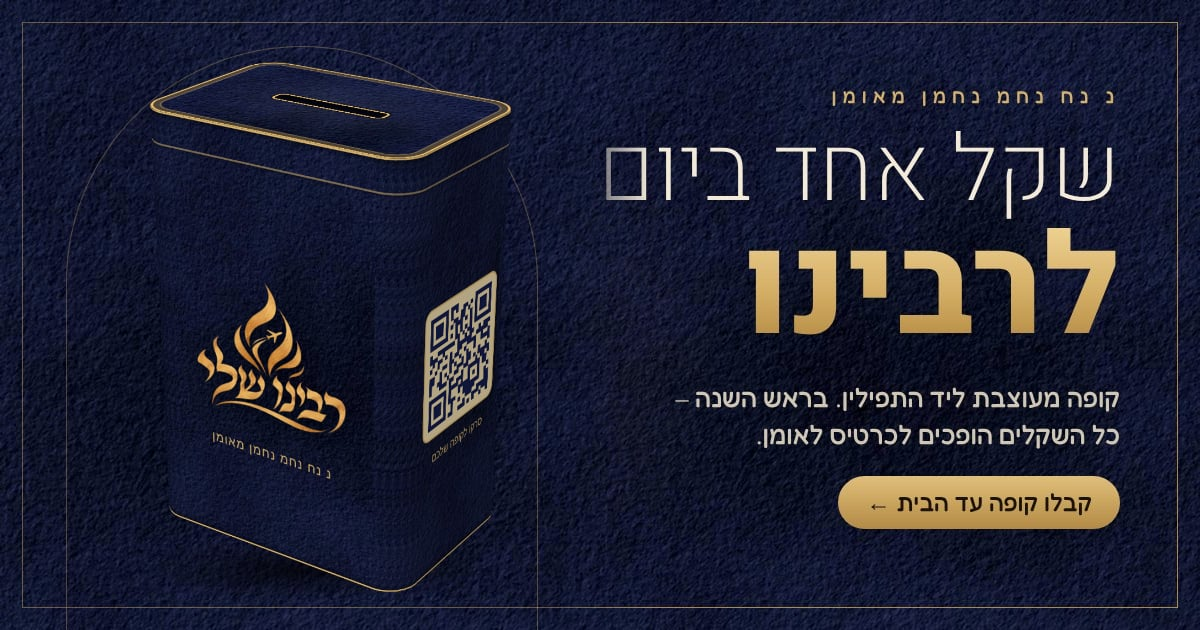
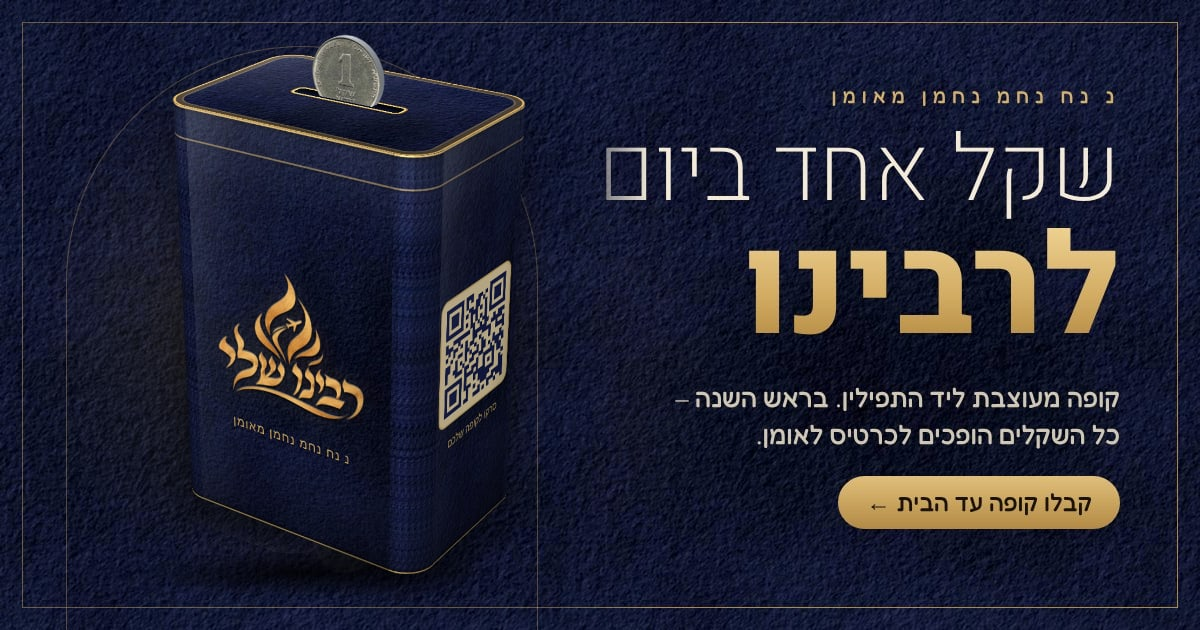
More realistic, premium box: light and sheen on every face, specular corner, gold-foil text and rims; real shekel resting in the slot on the post images
Claude-Session: https://claude.ai/code/session_01VgTt85jE2ddtHjzq3dwd3t

diff --git a/public/kbox.css b/public/kbox.css
@@ -20,7 +20,7 @@
 .kb .qt{font-family:Fredoka,sans-serif;font-weight:500;font-size:calc(10.5*var(--u));color:#d4b06a;text-align:center;line-height:1.35;padding:0 calc(6*var(--u))}
 .kb .slot{position:absolute;left:50%;top:50%;width:calc(100*var(--u));height:calc(13*var(--u));margin:calc(-6.5*var(--u)) 0 0 calc(-50*var(--u));border-radius:calc(4*var(--u));background:#03050f;box-shadow:inset 0 calc(3*var(--u)) calc(4*var(--u)) #000,0 0 0 calc(2*var(--u)) #c9a35c,0 0 0 calc(3.5*var(--u)) rgba(0,0,0,.4)}
 /* falling shekel – real 3D coin inside the box space, drops edge-first through the slot */
-.kb .cn3{position:absolute;left:50%;top:0;width:calc(54*var(--u));height:calc(54*var(--u));margin:calc(-27*var(--u)) 0 0 calc(-27*var(--u));transform-style:preserve-3d;animation:cdrop 4.6s infinite;pointer-events:none}
+.kb .cn3{position:absolute;left:50%;top:0;width:calc(64*var(--u));height:calc(64*var(--u));margin:calc(-32*var(--u)) 0 0 calc(-32*var(--u));transform-style:preserve-3d;animation:cdrop 4.6s infinite;pointer-events:none}
 .kb .cn3 i{position:absolute;inset:0;border-radius:50%;background:linear-gradient(90deg,#6f747b,#c9ced4 50%,#6f747b)}
 .kb .cn3 i:nth-child(1){transform:translateZ(calc(-3*var(--u)))}.kb .cn3 i:nth-child(2){transform:translateZ(calc(-1.5*var(--u)))}.kb .cn3 i:nth-child(3){transform:translateZ(0)}.kb .cn3 i:nth-child(4){transform:translateZ(calc(1.5*var(--u)))}.kb .cn3 i:nth-child(5){transform:translateZ(calc(3*var(--u)))}
 .kb .cn3 b{position:absolute;inset:0;border-radius:50%;display:grid;place-items:center;align-content:center;font-family:Fredoka,sans-serif;color:#5d6268;background:radial-gradient(circle at 34% 28%,#fbfcfd,#d3d7dc 38%,#a4a9b0 72%,#858a91);box-shadow:inset 0 0 0 calc(2.2*var(--u)) #9aa0a7,inset 0 0 0 calc(3.4*var(--u)) #e9ecef;backface-visibility:hidden}
@@ -36,3 +36,13 @@
 .jig{transform-style:preserve-3d;animation:jig 4.6s infinite}
 @keyframes jig{0%,74%,100%{transform:none}77%{transform:translateY(calc(3*var(--u,1px))) scale(1.012,.985)}81%{transform:translateY(calc(-1*var(--u,1px)))}85%{transform:none}}
 .kb .cn3 b.cf{background:url(/shekel-front.png) center/cover;box-shadow:none}.kb .cn3 b.cb{background:url(/shekel-back.png) center/cover;box-shadow:none}.kb .cn3 b *{display:none}
+
+/* ---- realism: light, sheen, gold foil ---- */
+.kb .fr::after,.kb .rt::after,.kb .lt::after,.kb .bk::after{content:"";position:absolute;inset:0;pointer-events:none;background:linear-gradient(100deg,rgba(255,255,255,.13) 0%,rgba(255,255,255,.04) 22%,transparent 45%,transparent 70%,rgba(0,0,0,.28) 100%),linear-gradient(180deg,rgba(255,255,255,.07),transparent 18%,transparent 78%,rgba(0,0,0,.35))}
+.kb .cs::after{content:"";position:absolute;inset:0;background:linear-gradient(180deg,rgba(255,255,255,.07),transparent 18%,transparent 78%,rgba(0,0,0,.35))}
+.kb .tp::after{content:"";position:absolute;inset:0;border-radius:inherit;background:linear-gradient(135deg,rgba(255,255,255,.16),transparent 45%,rgba(0,0,0,.18))}
+.kb .lg{filter:drop-shadow(0 calc(-.6*var(--u)) 0 rgba(255,236,190,.45)) drop-shadow(0 calc(1.6*var(--u)) calc(1.2*var(--u)) rgba(0,0,0,.75)) drop-shadow(0 0 calc(10*var(--u)) rgba(212,176,106,.18))}
+.kb .nn{background:linear-gradient(180deg,#f7e4ad,#c99a4b 55%,#f1d690);-webkit-background-clip:text;background-clip:text;color:transparent;filter:drop-shadow(0 calc(1*var(--u)) calc(.8*var(--u)) rgba(0,0,0,.7))}
+.kb .slot{background:linear-gradient(180deg,#000,#0a0f2a);box-shadow:inset 0 calc(3*var(--u)) calc(5*var(--u)) #000,0 0 0 calc(1.6*var(--u)) #f0d38f,0 0 0 calc(3*var(--u)) #9c7535,0 calc(1.5*var(--u)) calc(3*var(--u)) calc(3*var(--u)) rgba(0,0,0,.45)}
+/* a coin resting half-way into the slot (still images / posts) */
+.kb.still .cn3{animation:none;opacity:1;transform:translateY(calc(-20*var(--u)))}

diff --git a/public/me.html b/public/me.html
@@ -6,7 +6,7 @@
 <link rel="icon" href="/favicon.png"><link rel="apple-touch-icon" href="/apple-icon.png">
 <link rel="preconnect" href="https://fonts.googleapis.com"><link rel="preconnect" href="https://fonts.gstatic.com" crossorigin>
 <link href="https://fonts.googleapis.com/css2?family=Bona+Nova:wght@700&family=Heebo:wght@200;800&family=Fredoka:wght@400;500;600;700&display=swap" rel="stylesheet">
-<link rel="stylesheet" href="/base.css?v=6"><link rel="stylesheet" href="/kbox.css?v=6"><script src="/kbox.js?v=1" defer></script><script src="/i18n.js?v=1"></script>
+<link rel="stylesheet" href="/base.css?v=6"><link rel="stylesheet" href="/kbox.css?v=7"><script src="/kbox.js?v=2" defer></script><script src="/i18n.js?v=1"></script>
 <style>
 body{min-height:100svh;--a11y-b:92px}
 .app{width:min(520px,100%);margin:0 auto;min-height:100svh;padding:0 18px calc(96px + env(safe-area-inset-bottom));position:relative}
@@ -142,7 +142,7 @@ svg.li *{animation:none!important;stroke-dasharray:none!important;stroke-dashoff
 
 <div class="sh" id="sh" role="dialog" aria-modal="true"><div class="pn" id="pn"></div></div>
 <div class="toast" id="toast"></div><datalist id="cityList"></datalist>
-<script src="/cities.js?v=5"></script><script src="/share.js?v=7"></script>
+<script src="/cities.js?v=5"></script><script src="/share.js?v=8"></script>
 <script>
 const $=s=>document.querySelector(s),$$=s=>[...document.querySelectorAll(s)];
 const fmt=n=>Math.round(+n||0).toLocaleString('he-IL');const esc=s=>String(s??'').replace(/[&<>"]/g,c=>({'&':'&amp;','<':'&lt;','>':'&gt;','"':'&quot;'}[c]));

diff --git a/public/index.html b/public/index.html
@@ -8,7 +8,7 @@
 <link rel="icon" href="/favicon.png"><link rel="apple-touch-icon" href="/apple-icon.png">
 <link rel="preconnect" href="https://fonts.googleapis.com"><link rel="preconnect" href="https://fonts.gstatic.com" crossorigin><link rel="preconnect" href="https://images.unsplash.com">
 <link href="https://fonts.googleapis.com/css2?family=Bona+Nova:wght@700&family=Heebo:wght@200;800&family=Fredoka:wght@400;500;600;700&display=swap" rel="stylesheet">
-<link rel="stylesheet" href="/base.css?v=6"><link rel="stylesheet" href="/kbox.css?v=6"><script src="/kbox.js?v=1" defer></script><script src="/i18n.js?v=1"></script>
+<link rel="stylesheet" href="/base.css?v=6"><link rel="stylesheet" href="/kbox.css?v=7"><script src="/kbox.js?v=2" defer></script><script src="/i18n.js?v=1"></script>
 <style>
 .wrap{width:min(1200px,100% - 40px);margin-inline:auto}
 h1,h2,h3,.f{font-family:var(--fs)}
@@ -316,7 +316,7 @@ footer{border-top:1px solid rgba(246,239,224,.1);padding:40px 0 calc(90px + env(
 </form></div>
 <canvas id="share" width="1080" height="1350" style="display:none"></canvas>
 <div class="toast" id="toast"></div><div class="jt" id="jt" aria-live="polite"></div>
-<script src="/cities.js?v=5"></script><script src="/share.js?v=7"></script>
+<script src="/cities.js?v=5"></script><script src="/share.js?v=8"></script>
 <script src="/ilmap.js?v=5"></script>
 <script>
 const $=s=>document.querySelector(s),$$=s=>[...document.querySelectorAll(s)];

diff --git a/public/kbox.js b/public/kbox.js
@@ -1,6 +1,6 @@
 // rounded vertical corners for every .kb box: 4 corners × 6 thin strips around a cylinder of radius --r
 (function(){
-  const N=6,B=[[0,1],[90,.78],[180,.7],[270,.6],[360,1]];
+  const N=8,B=[[0,1],[22,1.42],[40,1.05],[90,.78],[180,.7],[270,.6],[330,.9],[345,1.12],[360,1]]; // a soft specular highlight on the front-right corner
   const lum=a=>{for(let i=1;i<B.length;i++)if(a<=B[i][0]){const[a0,b0]=B[i-1],[a1,b1]=B[i];return b0+(b1-b0)*(a-a0)/(a1-a0)}return 1};
   const C=[[1,1,0],[1,-1,90],[-1,-1,180],[-1,1,270]]; // x sign, z sign, start angle
   function build(kb){if(kb.dataset.round)return;kb.dataset.round=1;const frag=document.createDocumentFragment();
